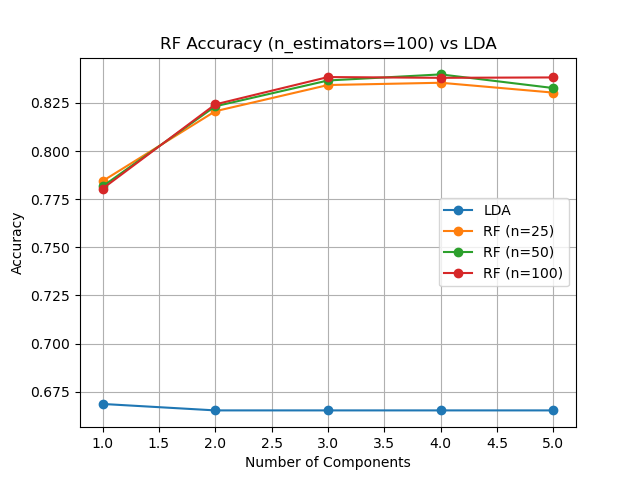
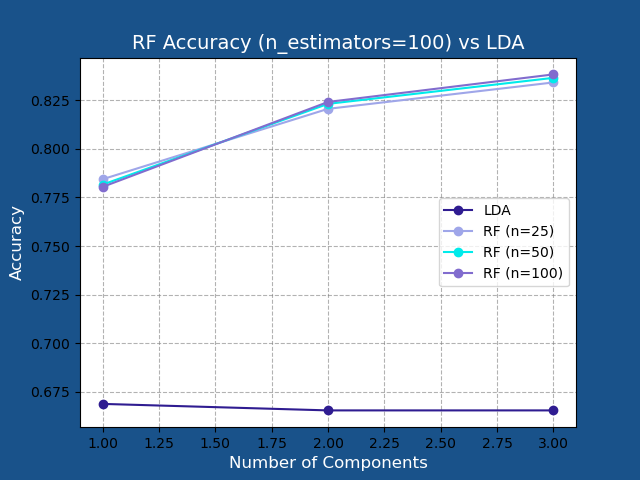
scream

diff --git a/LDA_Grid_Search.py b/LDA_Grid_Search.py
@@ -6,7 +6,7 @@ from sklearn.metrics import accuracy_score
 
 sd = 42
 np.random.seed(sd)
-
+colors = ['#008080', '#0373d3', '#816cce', '#00ebeb', '#9fa6e9', '#2f1c91']
 
 # Function to perform LDA transformation
 def perform_lda(X_train, y_train, X_test):
@@ -64,16 +64,23 @@ def rf_search_fn(X_train, y_train, X_test, y_test, n_estimators):
     return accuracy_score(y_test, y_pred)
 
 def plot_accuracies(x_values, accuracies, xlabel, ylabel, title, label=None):
-    plt.plot(x_values, accuracies, marker='o', label=label)
-    plt.xlabel(xlabel)
-    plt.ylabel(ylabel)
-    plt.title(title)
-    plt.grid(True)
+    #plt.figure(facecolor='#120e24ff')
+
+    plt.plot(x_values, accuracies, marker='o', label=label, color=colors[-1])
+    colors.pop()
+    
+    plt.xlabel(xlabel, color='white', fontsize=12)
+    plt.ylabel(ylabel, color='white', fontsize=12)
+    plt.title(title, color='white', fontsize=14)
+
+    plt.grid(True, linestyle='--', color='gray', alpha=0.6)
+
     if label:
         plt.legend()
 
 def plot_accuracies_bar(rf_data):
     categories = list(rf_data.keys())
+    categories = [str(key) for key in rf_data.keys()]
     values = list(rf_data.values())
 
     # Create the bar plot
@@ -81,13 +88,13 @@ def plot_accuracies_bar(rf_data):
     plt.bar(categories, values, color='skyblue', edgecolor='black')
 
     # Add labels and title
-    plt.xlabel('Category')
+    plt.xlabel('Number of Components')
     plt.ylabel('Accuracy')
-    plt.title('Accuracy for Different Categories')
+    plt.title('RF Accuracy With/Without LDA Reduction')
     plt.ylim(0.75, 0.85)  # Set minimum y-axis limit for better focus
     plt.grid(axis='y', linestyle='--', alpha=0.7)
 
-    # Show plot
+    # saving plot
     plt.savefig("accuracies_rf_bar.png")
 
 
@@ -98,13 +105,16 @@ def lda_rf_pipeline(X_train, y_train, X_test, y_test, n_components_list, n_estim
     max_components = min(len(classes) - 1, X_train.shape[1])
     
     compute_projection = perform_lda(X_train, y_train, X_test)
-
+    plt.figure(facecolor='#19528a')
     lda_accuracies = []
     for n_components in n_components_list:
         print(f"Testing LDA with {n_components} components")
         X_train_lda, X_test_lda = compute_projection(n_components)
         acc = lda_search_fn(X_train_lda, y_train, X_test_lda, y_test)
         lda_accuracies.append(acc)
+    
+    
+
     plot_accuracies(n_components_list, lda_accuracies, "Number of Components", "Accuracy",
                     "LDA Accuracy by Number of Components", label="LDA")
     
@@ -122,13 +132,14 @@ def lda_rf_pipeline(X_train, y_train, X_test, y_test, n_components_list, n_estim
             acc = rf_search_fn(X_train_lda, y_train, X_test_lda, y_test, n_estimators)
             if n_estimators == max(n_estimators_list): rf_data[n_components] = acc
             rf_accuracies.append(acc)
-
+        
         plot_accuracies(n_components_list, rf_accuracies, "Number of Components", "Accuracy",
                         f"RF Accuracy (n_estimators={n_estimators}) vs LDA", label=f"RF (n={n_estimators})")
         
     plt.legend()
+    
     plt.savefig("lda_rf_accuracy_comparison.png")
-    plt.show()
+    #plt.show()
 
 
     for i, acc in enumerate(rf_no_lda_accuracies):
@@ -152,7 +163,7 @@ def process_data_file(file_path, n_estimators_list):
     y_train, y_test = y[indices[:split_index]], y[indices[split_index:]]
 
     classes = np.unique(y_train)
-    max_components = 11#min(len(classes) - 1, X_train.shape[1])
+    max_components = 3#min(len(classes) - 1, X_train.shape[1])
     n_components_list = list(range(1, max_components + 1))
 
     # print("\nLDA Grid Search:")
